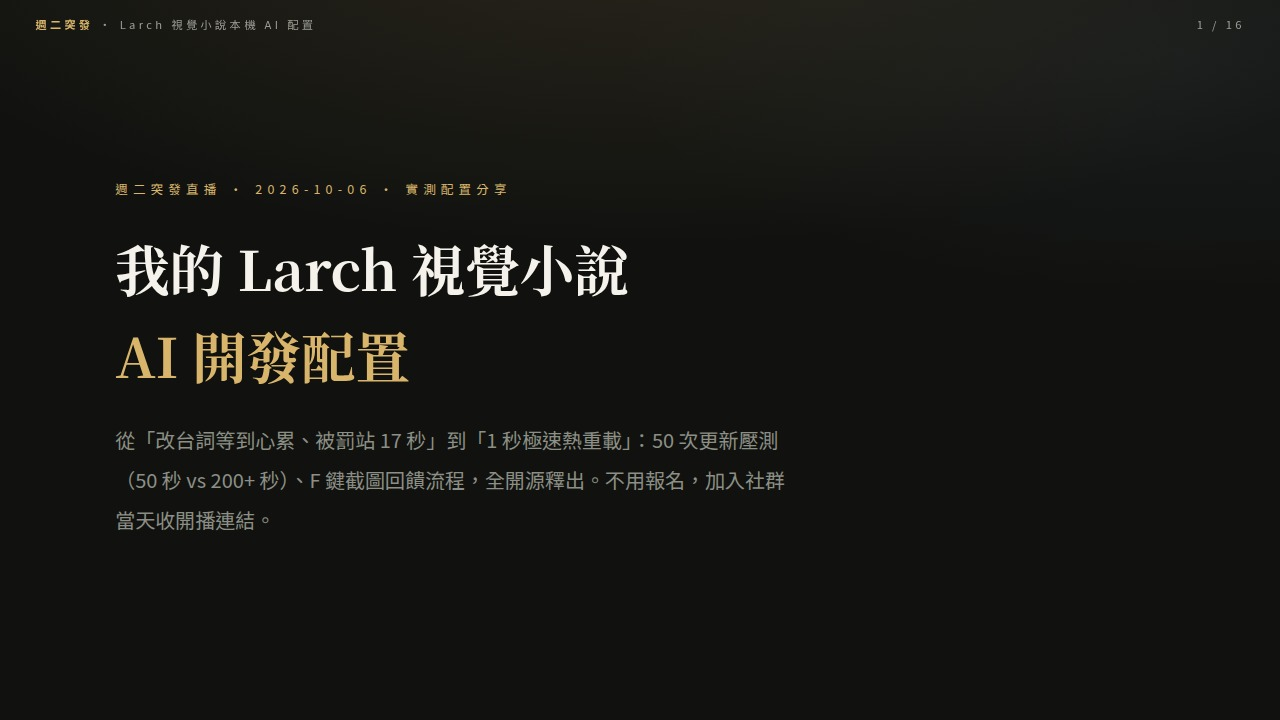
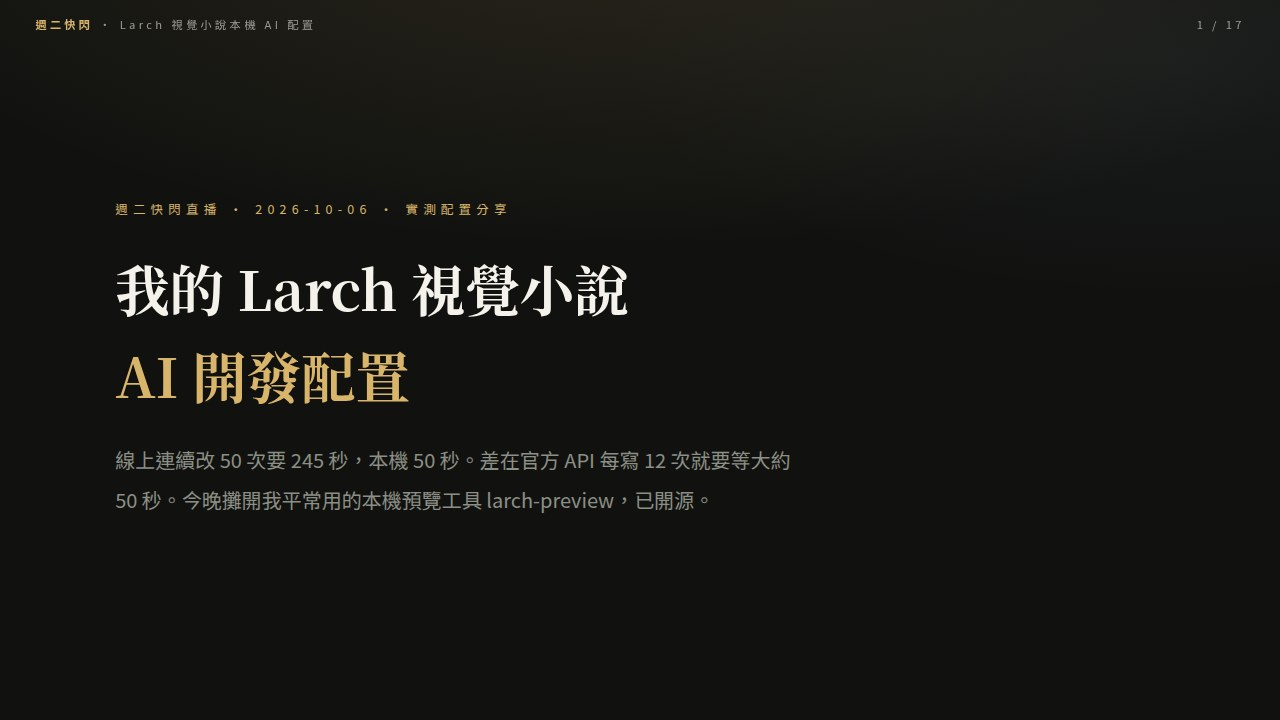
fix(events): 1006 快閃場改用實測數據與正確用語
下午重測：連續第 13 次寫入回 429、retry-after 49～52 秒；
50 次連續修改線上 245 秒、本機 50～51 秒。原本的「7 次、17 秒」重現不出來。
封面同步換成新版簡報第 1 頁。

diff --git a/events/larch-ai-2026-10-06.md b/events/larch-ai-2026-10-06.md
@@ -1,7 +1,7 @@
 ---
 layout: event
 title: 我的 Larch 視覺小說 AI 開發配置
-subtitle: 從「改台詞等到心累、被罰站 17 秒」到「1 秒極速熱重載」：50 次更新壓測（50 秒 vs 200+ 秒）、F 鍵截圖回饋流程，全開源釋出。不用報名，加入社群當天收開播連結。
+subtitle: 線上連續改 50 次要 245 秒，本機 50 秒。差在官方 API 每寫 12 次就要等大約 50 秒。今晚攤開我平常用的本機預覽工具 larch-preview，已開源。不用報名，加入社群當天收開播連結。
 permalink: /events/larch-ai-2026-10-06/
 event_batch: larch-ai-2026-10-06
 event_date: "2026-10-06"
@@ -15,36 +15,34 @@ event_closed: true
 form_closed_heading: 這場不用報名
 form_closed_message: 免費快閃直播。開播連結當天在社群公布，加入社群就會收到。
 event_community_url: https://line.me/ti/g2/xshYqZH3DLsqO8XNipmG3abL_KM6DORU7da5Lw?utm_source=invitation&utm_medium=link_copy&utm_campaign=default
-share-description: 10/6 週二晚上八點快閃直播：我的 Larch 視覺小說 AI 開發配置。從「改台詞等到心累、被罰站 17 秒」到「1 秒極速熱重載」，現場拆解 50 次壓測真相與開源 Repo。
+share-description: 10/6 週二晚上八點快閃直播：我的 Larch 視覺小說 AI 開發配置。線上連續改 50 次 245 秒、本機 50 秒，現場看實測數據，帶走開源的 larch-preview。
 ---
 
-> **10/6（二）20:00 開播。** 臨時快閃加開場，連結當天在社群公布，往下拉加入社群就會收到。
+> **10/6（二）20:00 開播。** 臨時加開的快閃場，連結當天在社群公布，往下拉加入社群就會收到。
 
-很多人在 9 月的直播之後開始嘗試用 AI 寫視覺小說。大家常問我：「亞澤，為什麼我叫 AI 改一句話，在線上等半天？」「改沒幾次突然整台卡住報錯？」「要跟 AI 說哪句台詞唸錯，光找卡片 ID 就想放棄……」
+9 月兩場 Larch 直播之後，常被問到兩件事：叫 AI 改沒幾次突然報錯，還有很難跟 AI 講清楚是哪一句要改。
 
-線上改卡片的 API 本來就有保護機制：連續改 7 到 8 次就會觸發 HTTP 429 強制罰站 17 秒冷卻。如果每次改動都要上傳雲端再手動重新整理網頁，改完一部作品至少要多等半小時以上，心流全被打斷了。
+報錯是官方 API 的寫入限流。今天下午實測，agent 連續寫入到第 13 次會回 429，要等 49～52 秒才能繼續，等完又能寫 12 次。連續改 50 次總共 245 秒，其中大約 205 秒在等。單次改一句其實不慢，線上 1.6 秒、本機 1 秒，差在一部作品要來回改上百次。
 
-我平常在做《格莉奇與黑洞先生》或《咒泉鄉的白帝城》時，在開發期根本不是在線上等。我全都在本機跑一個自己寫的預覽外殼，今天早上正式把這套工具開源釋出（[yazelin/larch-preview](https://github.com/yazelin/larch-preview)）。
+我做 Larch 作品時，改劇本的階段多半在本機預覽，不直接打雲端 API。這個預覽工具叫 [larch-preview](https://github.com/yazelin/larch-preview)，程式是 AI 寫的，我拿自己的作品一邊用一邊叫它改，今天開源了。
 
-## 這晚會走過的路
+## 這晚會講的
 
-- **實測撞牆揭密**：為什麼線上連續改幾次會被鎖 17 秒？現場看 HTTP 429 報錯。
-- **50 次連續更新壓測**：本地 50 秒跑完，線上超過 200 秒（其中近 2 分鐘在冷卻罰站）。
-- **1 秒極速熱重載**：左邊 VS Code 存檔，右邊瀏覽器 1 秒自動換句，而且視角牢牢停在原本那張卡片的那一句。
-- **不用 AI 也能跑**：純手動 4 步驟，用 VS Code 自己寫對白，一枚松果幣與 Token 都不用花。
-- **F 鍵截圖即時回饋**：預覽時按「F」鍵自動截圖並記錄卡片 ID，讓 Agent 讀檔精確把唸錯的字修掉。
-- **完工整包推上雲端**：本地無限次迭代，最後只要 1 次呼叫整包替換，不撞 429。
-- **跨平台安裝教學**：macOS、Linux 與 Windows 原生 PowerShell（免 WSL、免管理員權限）。
+- **限流實測**：看 429 的原文，還有兩輪各 50 次的數字。連續改 50 次，線上 245 秒，本機 50 秒，至少快 4.8 倍。
+- **本機預覽**：左邊 VS Code 存檔，右邊大約 1 秒後自己重整，停在原本那張卡、那一句。
+- **不用 AI 也能用**：預覽本身不呼叫 AI，不花松果幣，也不吃 token。
+- **按 F 留回饋**：留一句話加截圖，連同卡片 ID 寫成檔案，agent 讀了照著改。
+- **改完推回 Larch**：本機改完推一次，50 次寫入變成 1 次。也會講整包取代要注意什麼。
+- **安裝**：macOS、Linux、Windows PowerShell 的指令，Claude Code、Codex、agy、GitHub Copilot CLI 都讀得到。
 
-開源倉庫（MIT 授權，免登入直接看）：[github.com/yazelin/larch-preview](https://github.com/yazelin/larch-preview)。
+開源 repo（MIT 授權，不用登入就能看）：[github.com/yazelin/larch-preview](https://github.com/yazelin/larch-preview)。
 
-## 官方活動宣傳：第三屆 Larch 創作者挑戰《自由與限制》
+## 官方活動：第三屆 Larch 創作者挑戰《自由與限制》
 
-- **主題**：自由與限制（解開鎖鏈，讓故事與雲一起自由）
-- **時間**：為期 3 週（10 月 4 日 ～ 10 月 24 日截止，目前才剛進入第 1 週，時間非常充裕！11/01 公布得獎結果）
-- **規格**：使用 Larch 製作 5～10 分鐘好故事，加入 RPG 擴充功能大大加分
-- **獎勵**：報名即送 100 枚松果幣，分享活動可申請活動 Pro；最佳作品獎金 US$50
+- **主題**：自由與限制
+- **時間**：為期 3 週，10 月 4 日到 10 月 24 日截止，現在是第 1 週，11/01 公布得獎結果
+- **規格**：用 Larch 做一個 5～10 分鐘的故事，有用 RPG 擴充功能會加分
+- **獎勵**：報名送 100 枚松果幣，分享活動可以申請活動 Pro，最佳作品獎金 US$50
 - **活動網址**：[larch.ink/creator-challenge](https://larch.ink/creator-challenge)
 
 明天週三（10/7）正式場「讓網站每天自己寫一篇」照常舉行。
-
